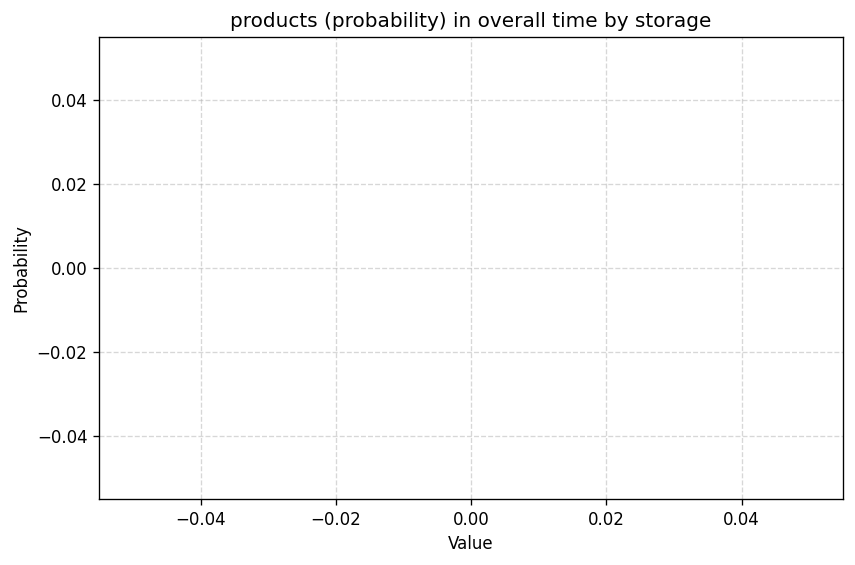
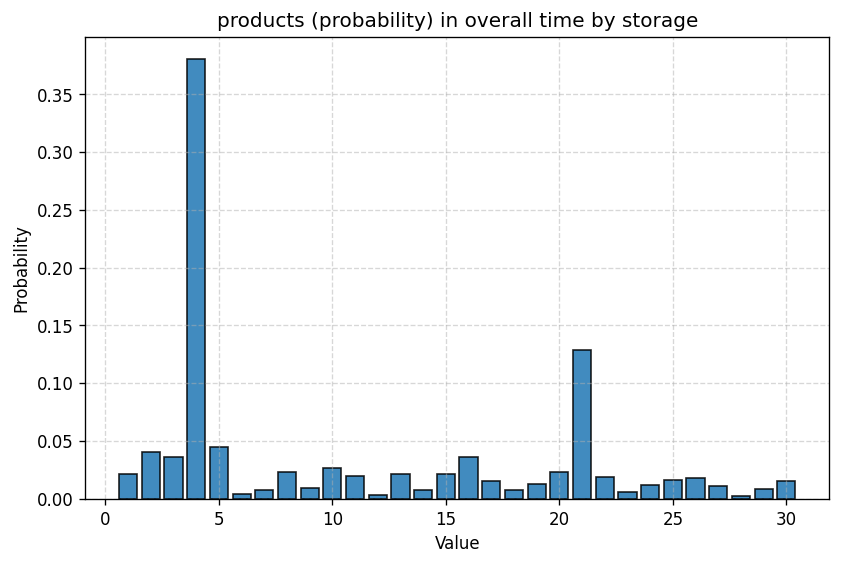
data-generator: generates many data as u want!

diff --git a/data-generator/src/Generator.py b/data-generator/src/Generator.py
@@ -1,4 +1,5 @@
 import numpy as np
+from datetime import datetime, timedelta
 
 def softmax(x):
     exp_x = np.exp(x - np.max(x))
@@ -83,10 +84,14 @@ class Generator:
     
     def generate_n_orders(self,
                           products):
-        cut_probability = (products / float(self.average_order_size) - 1.0) / (products - 1)
-        cut_probability = float(np.clip(cut_probability, 0.0, 1.0))
-        cuts = self.random_generator.generate_binomial(products -1, cut_probability)
-        n_orders = cuts + 1
+        if(products == 1):
+            n_orders = 1
+        else:
+
+            cut_probability = (products / float(self.average_order_size) - 1.0) / (products - 1)
+            cut_probability = float(np.clip(cut_probability, 0.0, 1.0))
+            cuts = self.random_generator.generate_binomial(products -1, cut_probability)
+            n_orders = cuts + 1
 
         return n_orders
 
@@ -108,35 +113,29 @@ class Generator:
     def generate_timestamps(self, n_orders):
         orders_timestamp = self.random_generator.generate_normal(n_orders, self.timestamp_mean, self.timestamp_deviation)
         orders_timestamp = np.clip(orders_timestamp, 0, 1440) 
+        orders_timestamp = np.rint(orders_timestamp).astype(int)
+        orders_timestamp.sort()
+        base = datetime(2000, 1, 1)
+        timestamps = np.array([(base + timedelta(minutes=int(m))).time().strftime("%H:%M") for m in orders_timestamp])
 
-
-        
-
-        return orders_timestamp
+        return timestamps
 
 
     def move_forward_in_time(self):
-        print(self.generate_timestamps(10))
-
-        return 
         for day in range(1, self.n_days + 1):
             self.products_by_day[day] = self.generate_products_by_day(day)
 
             for storage, products_by_storage in enumerate(self.products_by_day[day]):
                 if(products_by_storage == 0):
                     orders = np.zeros(0)
+                    orders_timestamps = np.zeros(0)
                 else:
                     n_orders = self.generate_n_orders(products_by_storage)
                     orders = self.generate_orders_by_storage(products_by_storage, n_orders)
+                    orders_timestamps = self.generate_timestamps(n_orders)
                     
                 self.orders_by_day[day, storage] = orders
-
-                print(f"{storage}-{products_by_storage} products to split in {n_orders}, day {day}", orders, f" checksum {np.sum(orders)}")
-
-                if(np.sum(orders) != products_by_storage):
-                    raise ValueError("Sum of vector orders doesn't match the products_by_storage")
-                
-        print(self.orders_by_day[1])
+                self.orders_schedule_by_day[day, storage] = orders_timestamps
 
 if __name__ == "__main__":
 

diff --git a/data-generator/src/main.py b/data-generator/src/main.py
@@ -22,8 +22,8 @@ def main():
     random_generator = DistributionGenerator(seed) #1758960033
     plotter = Plotter()
 
-    n_days=20
-    n_storages=5
+    n_days=360
+    n_storages=30
     storages_popularity = generate_base_storages_popularity(n_storages, random_generator)
 
     generator = Generator(products_per_day_function,
